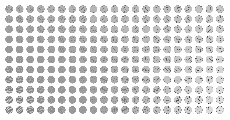
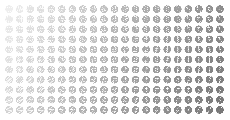
Aesthetic Three - pure white stroke

diff --git a/glyph.js b/glyph.js
@@ -34,7 +34,7 @@ function Glyph() {
     let pointNum = 2*(round(map(satValue,0,100,1,13)));
     //console.log(this.satValue);
     let strokeFill = map(ligValue,0,100,0,90);
-    let circFill = map(ligValue,0,100,98,50);
+    let circFill = map(ligValue,0,100,40,95);
     let tightness = map(ligValue,0,100,-2,0.8);
 
     let strokeW = size/30;
@@ -47,9 +47,9 @@ function Glyph() {
 
     push();
 
-    //noStroke();
+    noStroke();
     strokeWeight(1);
-    strokeUniform(strokeFill);
+    //strokeUniform(strokeFill);
     fillUniform(circFill);
 
     ellipse(0,0,size,size);
@@ -59,7 +59,7 @@ function Glyph() {
     curveTightness(0.1);
 
     strokeWeight(strokeW);
-    strokeUniform(strokeFill);
+    strokeUniform(100);
 
     var pointX = -size/2;
     var pos = -1;

diff --git a/README.md b/README.md
@@ -8,4 +8,4 @@ I am now exploring different aesthetics for the glyphs, I have added a circle wh
 
 I have also added an outer circle, which is completely white to trim away any of the wave that sticks out. So each glyph now stays within the guide perfectly.
 
--Explored linking the fill to the lightness value, refinement needed when both circle and wave colour are the same so wave isnt visible.
+- Explored making wave stroke purely white, only background now changes
